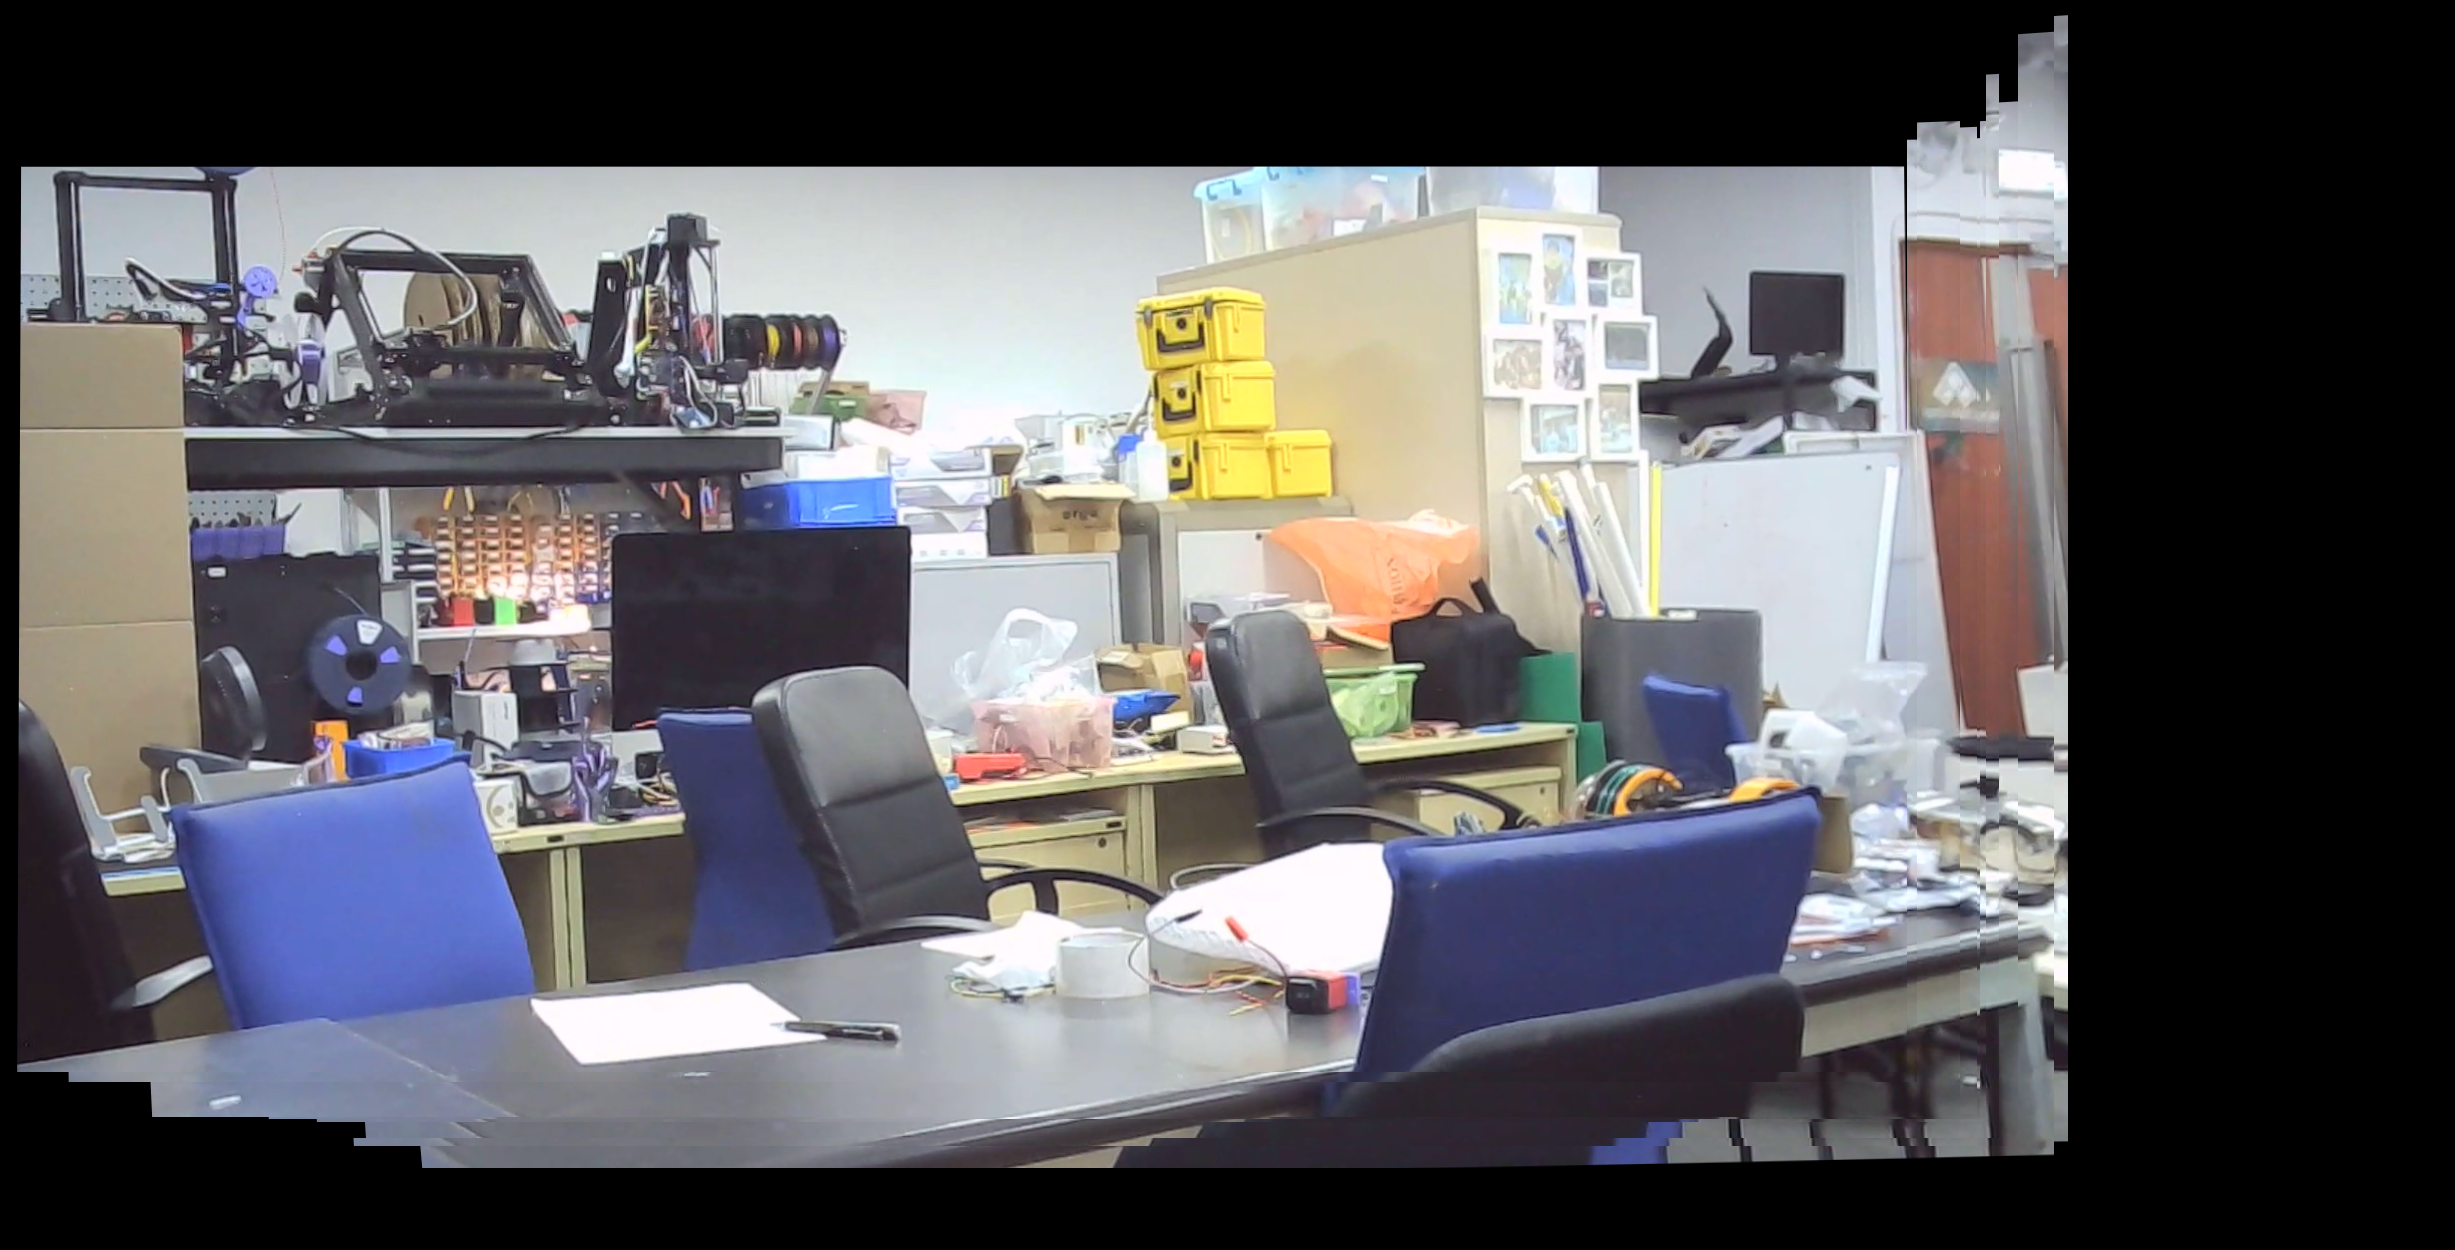
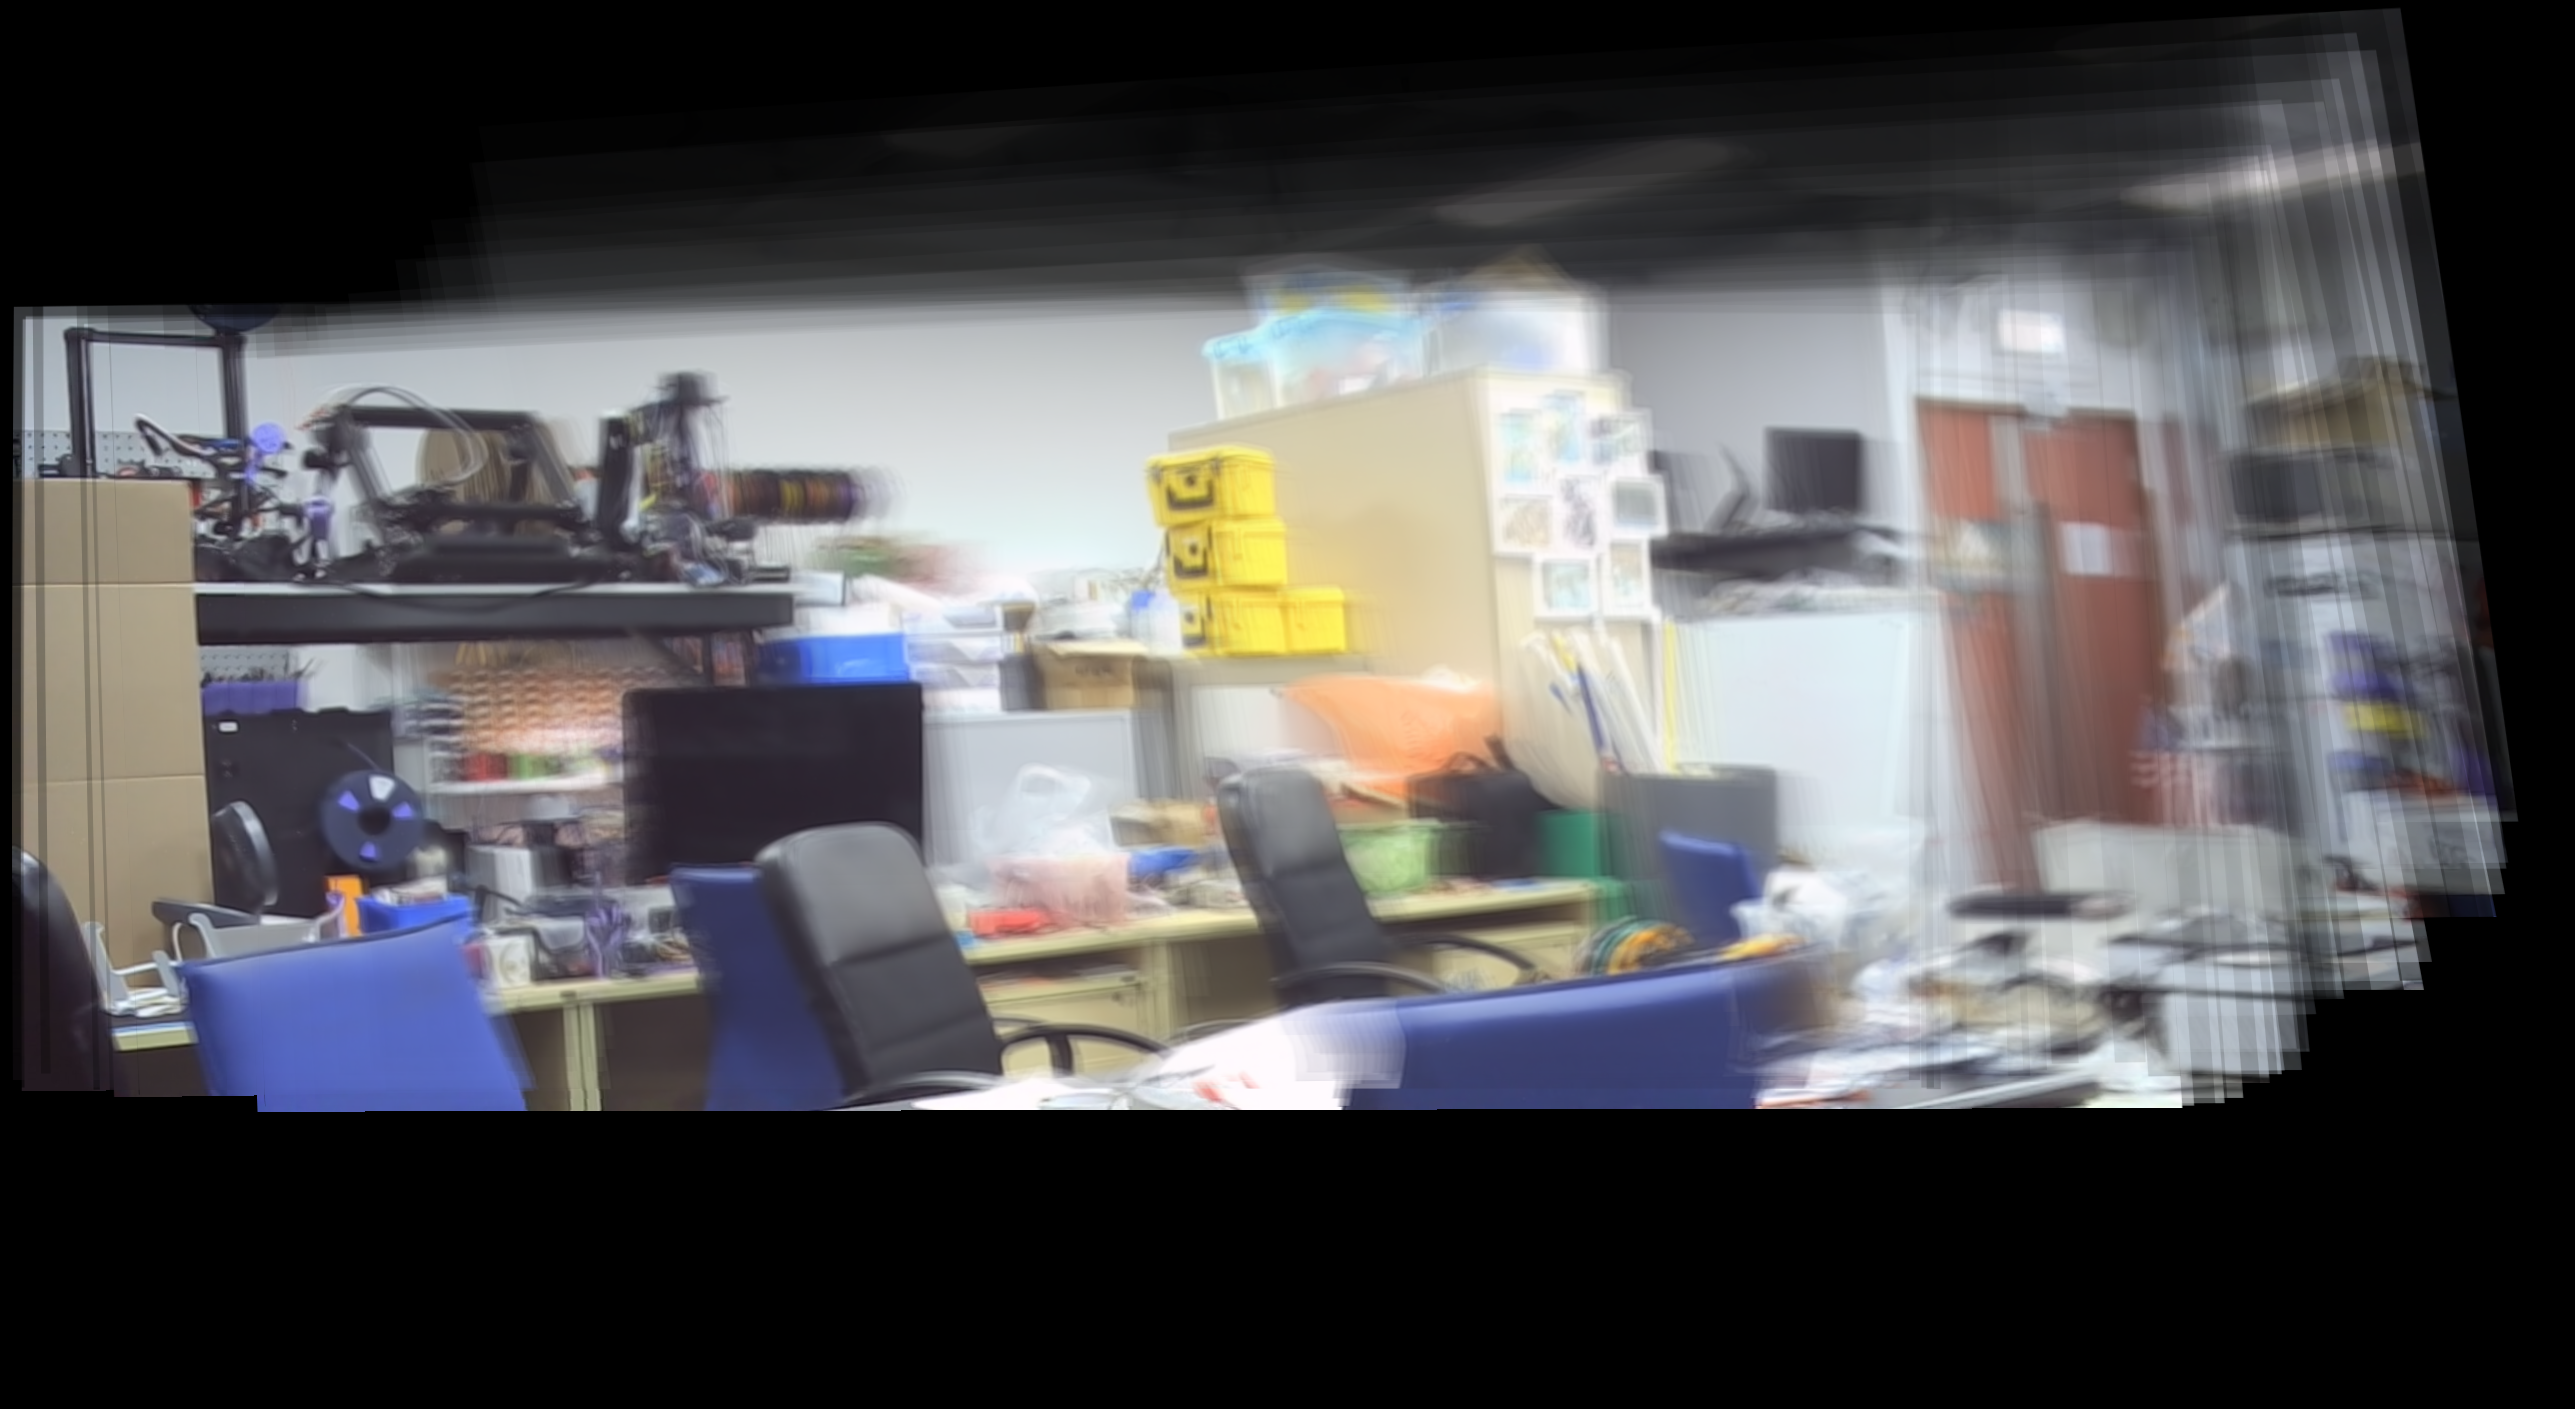
with bsic mask

diff --git a/stitching.py b/stitching.py
@@ -1,6 +1,8 @@
 import cv2
 import numpy as np
 
+
+
 class stitching:
     def __init__(self):
         pass
@@ -15,7 +17,8 @@ class stitching:
         h,w,_=key_frame[0].shape
         
         transformed_corners=[]
-        corners = np.float32([[0, 0], [w, 0], [0, h], [w, h]]).reshape(-1, 1, 2)
+        corners = np.float32([[0, 0], [w-1, 0], [0, h-1], [w-1, h-1]]).reshape(-1, 1, 2)
+        transformed_corners.append(corners)
         
 
         #first calculate all homography matrix,and store the transformed corners
@@ -32,33 +35,50 @@ class stitching:
 
         #create an empty canva for the output
         output=np.zeros((ymax_output-ymin_output,xmax_output-xmin_output,3),dtype=np.uint8)
+        weight_map = np.zeros((ymax_output-ymin_output, xmax_output-xmin_output), dtype=np.float32)
+        
+        #now calculate the coordinate homography matrix,make the point go to (0,0)
+        #this won't change the size of output canva
 
         
-        #now calculate the coordinate homography matrix
-        if(xmin_output<0):
-            xmin_output=-xmin_output
-        if(ymin_output<0):
-            ymin_output=-ymin_output
-        coor_homo=np.array([[1,0,xmin_output],[0,1,ymin_output],[0,0,1]],dtype=np.uint32)
+        coor_homo=np.array([[1,0,-xmin_output],[0,1,-ymin_output],[0,0,1]],dtype=np.float32)
 
     
-        
-        
         #clculate the perspective image and then stitch them to the output
-        for k in range(n-1,0,-1):
+        
+        for k in range(n-1,-1,-1):
             #we need to decide dsize(the w and h of the output frame)
             #we need to recalculate all corners,because the homography changed
             
             corners_cur=cv2.perspectiveTransform(corners,coor_homo.dot(homography[k]))
             
             
-            [xmin,ymin]=np.int32(corners_cur.min(axis=0).ravel())
-            [xmax,ymax]=np.int32(corners_cur.max(axis=0).ravel())
-            dsize=(xmax-xmin,ymax-ymin)
+            # [xmin,ymin]=np.int32(corners_cur.min(axis=0).ravel())
+            # [xmax,ymax]=np.int32(corners_cur.max(axis=0).ravel())
+            # dsize=(xmax - xmin , ymax - ymin)
+            dsize=(xmax_output-xmin_output,ymax_output-ymin_output)
             key_frame_homo_=cv2.warpPerspective(key_frame[k],coor_homo.dot(homography[k]),dsize)
+             # Create masks for blending
+           
+
+            # Blend using masks
+            mask = cv2.warpPerspective(np.ones((h, w), dtype=np.float32), homography[k], dsize)
+
+            # Blend the current image with the existing canvas
+            output = output + key_frame_homo_ * mask[:, :, None]  # Add weighted image
+            weight_map += mask  # Accumulate weights
+
+            print(f"Frame {k} added successfully, size: {key_frame_homo_.shape}")
+
+        # Normalize the output by the weight map to handle overlaps
+        weight_map[weight_map == 0] = 1  # Avoid division by zero
+        output = (output / weight_map[:, :, None]).astype(np.uint8)  
 
             #stitch the image to the output
-            output[0:ymax-ymin,0:xmax-xmin]=key_frame_homo_
+            # output[0:ymax-ymin,0:xmax-xmin]=key_frame_homo_
+            
+            
+        
         return output
 
         

diff --git a/Gen_Fullimage.py b/Gen_Fullimage.py
@@ -14,26 +14,24 @@ def Gen_Fullimage(camid):
 
 
     #cap=cv2.VideoCapture(camid)
-    cap=cv2.VideoCapture('../../test_video_1080P.mp4')
+    cap=cv2.VideoCapture('../../test_video_1080P0.mp4')
     if not cap.isOpened():
         print("Error: can't open camera")
         return None,None,0
     
 
-    cap.set(cv2.CAP_PROP_FRAME_HEIGHT,1080)
-    cap.set(cv2.CAP_PROP_FRAME_WIDTH,1920)
     
     fps = cap.get(cv2.CAP_PROP_FPS)
     delay = int(1000 / fps)  
-    image_height = int(cap.get(cv2.CAP_PROP_FRAME_HEIGHT))
-    image_width = int(cap.get(cv2.CAP_PROP_FRAME_WIDTH))
+   
     
     #initialize to have the first frame
     ret,frame=cap.read()
     if not ret:
         print('Error: output initialization failed')
         return None,None,0
-    img1=cv2.undistort(frame,cameraMatrix,distCoeffs)[10:,20:]
+    img1=cv2.undistort(frame,cameraMatrix,distCoeffs)
+    
 
     
    
@@ -41,7 +39,7 @@ def Gen_Fullimage(camid):
     keyframe=[]
     homography=[]
     n=1
-    H11=np.array([[1,0,0],[0,1,0],[0,0,1]])
+    H11=np.array([[1,0,0],[0,1,0],[0,0,1]]).astype(np.float32)
     keyframe.append(img1)
     homography.append(H11)
 
@@ -54,17 +52,18 @@ def Gen_Fullimage(camid):
             return None,None,0
         key=cv2.waitKey(delay)
         if(key & 0xFF==ord('s')):
-            #undistorted_img2=cv2.undistort(current,cameraMatrix,distCoeffs)[10:,20:]
-            undistorted_img2=cv2.undistort(current,cameraMatrix,distCoeffs)[10:,20:]
+            
+            undistorted_img2=cv2.undistort(current,cameraMatrix,distCoeffs)
             H=calculate.cal_homography(img1,undistorted_img2)
             keyframe.append(undistorted_img2)
             homography.append(H)
             img1=undistorted_img2.copy()
             n+=1
-            print("keyframe added successfully",current.shape[0],"x",current.shape[1])
+            print("keyframe added successfully",undistorted_img2.shape[0],"x",undistorted_img2.shape[1])
         
         elif (key & 0xFF==ord('q')):
             break
+        # cv2.namedWindow('current',cv2.WINDOW_NORMAL)
         cv2.imshow('current',current)
         # cv2.imshow('output',output_frame)
         
@@ -91,9 +90,10 @@ if __name__=='__main__':
     if output is None:
         print("no output generated")
         
-    #cv2.namedWindow('output',cv2.WINDOW_NORMAL)
+    # cv2.namedWindow('output',cv2.WINDOW_NORMAL)
     cv2.imshow('output',output)
     cv2.imwrite('./Test_images/output.png',output)
+    print("image saved successfully")
     while True:
         if (cv2.waitKey(1) & 0xFF==ord('l')):
             break

diff --git a/cal_homography.py b/cal_homography.py
@@ -9,8 +9,7 @@ class cal_homography:
         pass
     def cal_homography(self,img1,img2):
         
-        #img1=img1[10:,20:]
-        #img2=img2[10:,20:]
+        
         h1,w1,_=img1.shape
         h2,w2,_=img2.shape
         
@@ -37,8 +36,9 @@ class cal_homography:
 
         #calculate homography matrix
         H, inliers = cv2.findHomography(points2, points1, cv2.USAC_MAGSAC,maxIters=700, confidence=0.995)
+       
         
-        return H
+        return H.astype(np.float32)
 
         
 

diff --git a/stitching_ORB.py b/stitching_ORB.py
@@ -38,7 +38,7 @@ def stitching(img1,img2):
     #calculate the homography matrix
     img1_pts=np.float32([kpts1[m.queryIdx].pt for m in good_matches]).reshape(-1,1,2)
     img2_pts=np.float32([kpts2[m.trainIdx].pt for m in good_matches]).reshape(-1,1,2)
-    H,mask=cv2.findHomography(img2_pts,img1_pts,cv2.RANSAC)
+    H,_=cv2.findHomography(img2_pts,img1_pts,cv2.RANSAC)
 
     #get the projection of img2 to img1
     
